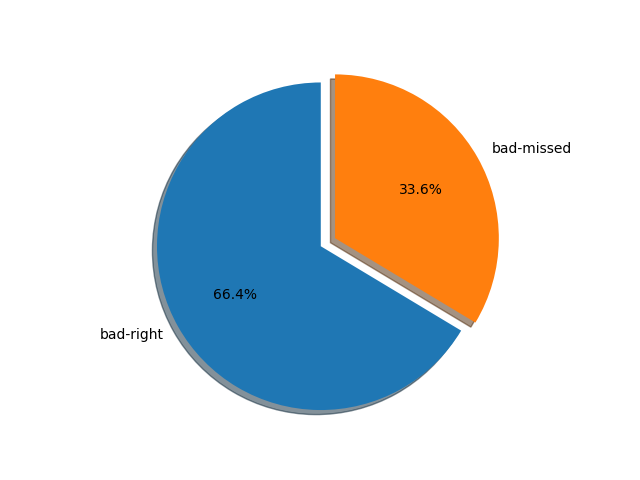
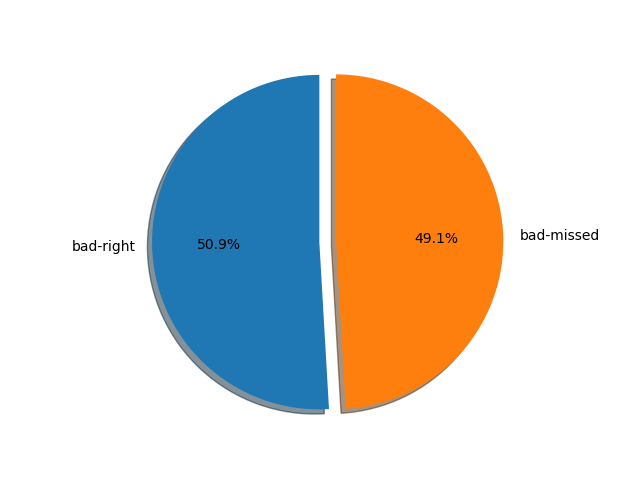
Update files

diff --git a/scraper.py b/scraper.py
@@ -28,6 +28,7 @@ def scrape_new(subreddit_name, reddit):
         post_info['title'] = submission.title
         post_info["score"] = submission.score
         post_info['id'] = submission.id
+        post_info['gildings'] = submission.gildings
         with open(subreddit_path / (str(counter) + '.json'), 'w', encoding='utf-8') as file:
             json.dump(post_info, file)
         counter += 1
@@ -46,6 +47,7 @@ def scrape_controversial(subreddit_name, reddit):
         post_info['title'] = submission.title
         post_info['score'] = submission.score - 100
         post_info['id'] = submission.id
+        post_info['gildings'] = submission.gildings
         with open(subreddit_path / (str(counter) + '.json'), 'w', encoding='utf-8') as file:
             json.dump(post_info, file)
         counter += 1
@@ -64,6 +66,7 @@ def scrape_top(subreddit_name, reddit):
         post_info['title'] = submission.title
         post_info["score"] = submission.score
         post_info['id'] = submission.id
+        post_info['gildings'] = submission.gildings
         with open(subreddit_path / (str(counter) + '.json'), 'w', encoding='utf-8') as file:
             json.dump(post_info, file)
         counter += 1
@@ -85,6 +88,7 @@ def scrape_hot(subreddit_name, reddit):
         else:
             post_info['score'] = submission.score
         post_info['id'] = submission.id
+        post_info['gildings'] = submission.gildings
         with open(subreddit_path / (str(counter) + '.json'), 'w', encoding='utf-8') as file:
             json.dump(post_info, file)
         counter += 1

diff --git a/naive_bayes.py b/naive_bayes.py
@@ -24,26 +24,35 @@ def get_data(subreddit_name):
     labels = []
     weights = []
 
+    counter = 0
     for directory in directories:
         for file in directory.iterdir():
             with open(file) as f:
                 data = json.load(f)
                 text_data.append(data['title'])
+                
                 if data['score'] >= 500:
                     labels.append('good')
                 else:
                     labels.append('bad')
 
-                if data['score'] > 10000:
-                    weights.append(50)
+                if data['score'] > 5000:
+                    weights.append(40)
                 elif data['score'] > 1000:
-                    weights.append(30)
+                    weights.append(20)
                 elif data['score'] < 50:
-                    weights.append(15)
+                    weights.append(5)
                 elif data['score'] < -100:
-                    weights.append(30)
+                    weights.append(20)
                 else:
                     weights.append(1)
+
+                if 'gid_2' in data['gildings']:
+                    weights[counter] *= 1.50
+                if 'gid_3' in data['gildings']:
+                    weights[counter] *= 3
+
+                counter += 1
 
     Reddit_Data = {'Title': text_data,'Score': labels, 'Weight': weights}
     df = pd.DataFrame(Reddit_Data, columns=['Title', 'Score', 'Weight'])

diff --git a/main.py b/main.py
@@ -20,6 +20,6 @@ reddit = praw.Reddit(client_id=auth['client_id'],
                      user_agent='This is a test.')
 
 #scrape('AskHistorians', reddit)
-scrape('CasualConversation', reddit)
-data = get_data('CasualConversation')
-run_naive_bayes('CasualConversation', data)
+#scrape('AskReddit', reddit)
+data = get_data('AskReddit')
+run_naive_bayes('AskReddit', data)
